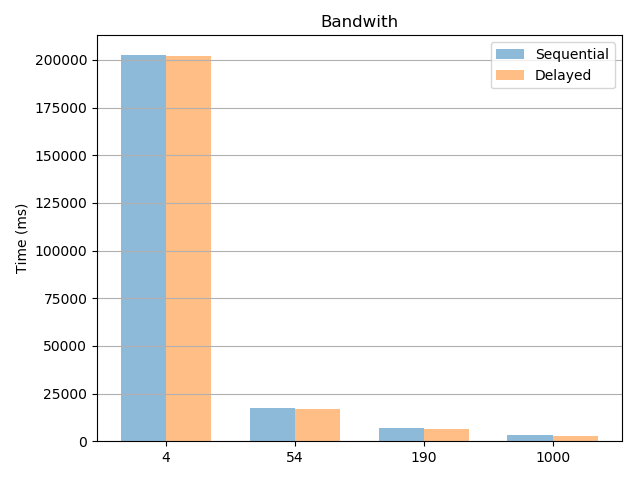
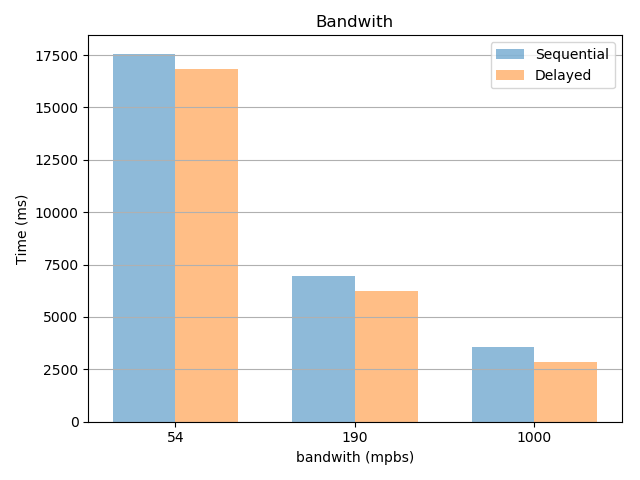
added x-axis labels and removed bandwith 4mpbs from graph

Changed region(s): [[0.0, 0.0938, 0.9688, 0.9688], [0.4688, 0.0312, 0.625, 0.0625], [0.0625, 0.2188, 0.0938, 0.25]]

diff --git a/main/mainfile.py b/main/mainfile.py
@@ -13,7 +13,7 @@ if __name__ =='__main__':
     #schemes: sequential, delayed
 
     #ARGUMENTS
-    repetitions = 5
+    repetitions = 20
     chunksizes = [1,4,5,8]
     means = [(10,8.8), (50,44), (100,88), (150,132)]
     #stddevs = [8.8, 44, 88, 132]
@@ -236,9 +236,10 @@ if __name__ =='__main__':
     ax.yaxis.grid(True)
     ax.legend((chunkseqbar[0], chunkdelbar[0]), ('Sequential', 'Delayed'))
     # Save the figure and show
+    plt.xlabel("Chunksizes (MB)")
     plt.tight_layout()
     plt.savefig('chunk_seq_del_graph.png')
-    plt.show()
+    #plt.show()
 
     #####Bandwith#################
     bandwithseq = []
@@ -253,7 +254,16 @@ if __name__ =='__main__':
     bandwithseq = np.array(bandwithseq)
     bandwithdel = np.array(bandwithdel)
 
-    x_pos = np.arange(len(chunkseq))
+    indices = np.arange(1,len(bandwithseq))
+    bandwithseq = np.take(bandwithseq,indices)
+    bandwithdel = np.take(bandwithdel,indices)
+    print("bandwith seq", bandwithseq)
+    print("bandwith del", bandwithdel)
+    print(len(bandwithseq))
+    print(len(bandwithdel))
+
+    x_pos = np.arange(len(bandwithseq))
+    print(x_pos)
     width = 0.35 #width of the bars
     fig, ax  = plt.subplots()
     bandwithseqbar = ax.bar(x_pos, bandwithseq, width, align='center', alpha=0.5, ecolor='black', capsize=10)
@@ -261,23 +271,22 @@ if __name__ =='__main__':
     ax.set_ylabel('Time (ms)')
     ax.set_xticks(x_pos + width / 2)
     #ax.set_xticklabels(titles)
-    ax.set_xticklabels(bandwith)
+
+    ax.set_xticklabels(np.take(bandwith, indices))
     ax.set_title('Bandwith')
     ax.yaxis.grid(True)
     ax.legend((bandwithseqbar[0], bandwithdelbar[0]), ('Sequential', 'Delayed'))
     # Save the figure and show
+    plt.xlabel("bandwith (mpbs)")
     plt.tight_layout()
     plt.savefig('bandwith_seq_del_graph.png')
-    plt.show()
+    #plt.show()
 
 
     #####RTT########################
-
-
-
     titles = []
-    rttseqmeans = [] #np.array(np.zeros(repetitions*2))
-    rttseqstds = [] #np.array(np.zeros(repetitions*2))
+    rttseqmeans = []
+    rttseqstds = []
     rttdelmeans = []
     rttdelstds = []
 
@@ -326,6 +335,7 @@ if __name__ =='__main__':
     ax.yaxis.grid(True)
     ax.legend((seqbar[0], delbar[0]), ('Sequential', 'Delayed'))
     # Save the figure and show
+    plt.xlabel("Round-trip time (ms)")
     plt.tight_layout()
     plt.savefig('rtt_seq_del_graph(errorbars).png')
-    plt.show()
+    #plt.show()

diff --git a/main/Server.py b/main/Server.py
@@ -82,7 +82,7 @@ class Server(Thread):
                     # print(int(timedif.total_seconds() * 1000))
                     if(int(timedif.total_seconds() * 1000) > 100):
                         ack = "ack"
-                        print(self.getName() + ": timeout expired!")
+                        #print(self.getName() + ": timeout expired!")
                         # print(self.getName() + ": send " + ack)
                         waitingacks = 0
                         self.ackq.put(ack)
